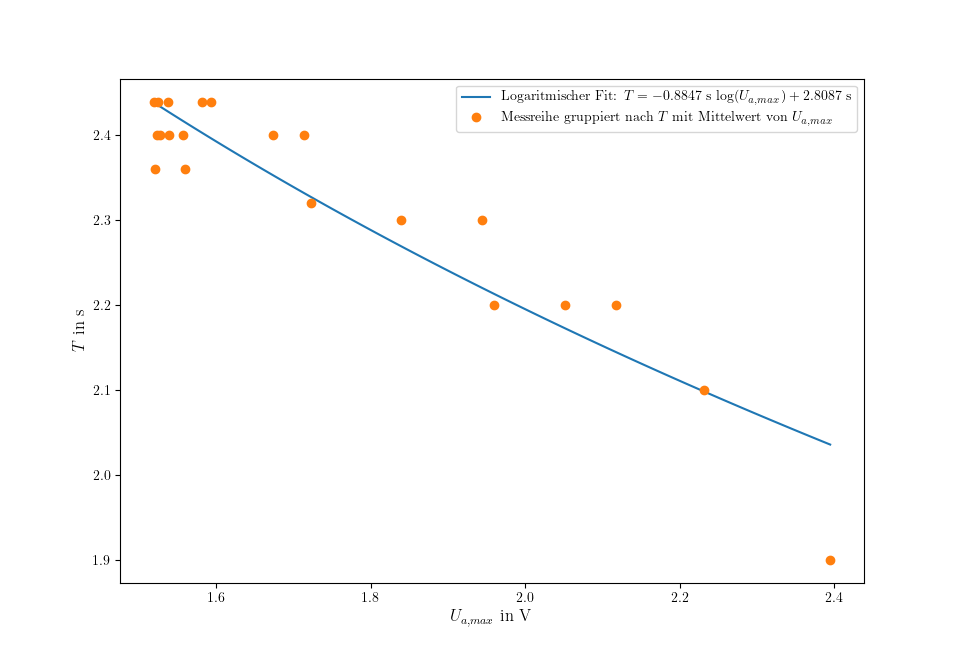
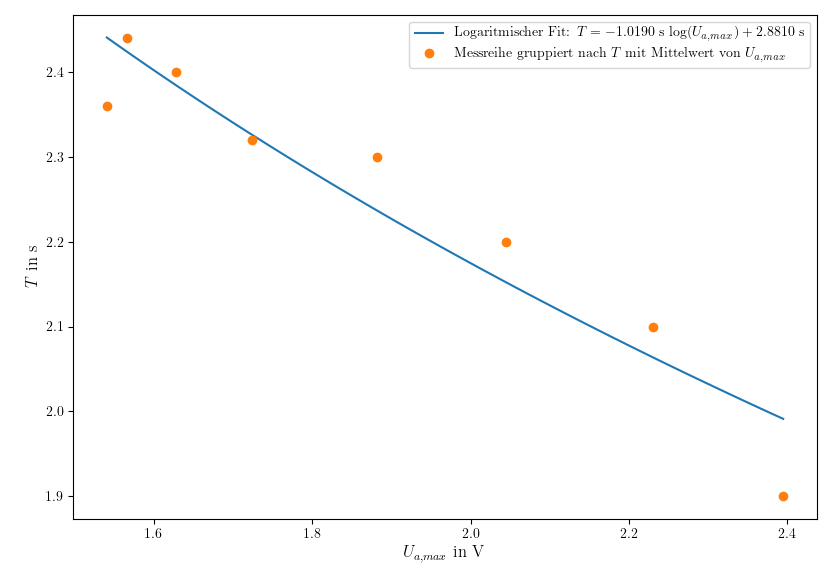
Chaos: Pendel fertig

diff --git a/Versuch_Chaos/41-AuswerungPendel.tex b/Versuch_Chaos/41-AuswerungPendel.tex
@@ -92,3 +92,90 @@ Das Ergebnis zeigt, dass die bestimmte Federkonstante $k$ nahe an den tatsächli
     \captionof{figure}{Linerar Fit der Messreihe}
     \label{image:linFit}
 \end{center}
+\subsection{Schwache Nichtlinearität}
+\label{sub:AuswertungweakLin}
+\paragraph{a)}
+Für die experimentelle Auswertung der Amplitudenabhängigkeit der Schwingungsdauer $T$ des Pendels  wird aus den aufgenommenen Daten die Maxima von der Spannung $U_{a}$ bestimmt, sowie der zeitlichen Abstand $\Delta t$ zwischen zwei Maxima ermittelt. Bei den Abstand $\Delta t$ entspricht dann der Periodendauer $T$ des Pendels. Da mehrere Werte für $T$ verhäuft vorkamen, haben wir die Daten von $T$ gruppiert und über die zugehörigen Maxima der Spannung $U_{a,max}$ den Mittelwert gebildet.
+\begin{center}
+    \begin{tabular}{c|c}
+        $T$/s & $U_{a,max}$/V\\
+        \hline
+        1.90  &  2.395000 \\
+        2.10  &  2.231000 \\
+        2.20  &  2.045000 \\
+        2.30  &  1.881600 \\
+        2.32  &  1.723000 \\
+        2.36  &  1.540000 \\
+        2.40  &  1.627824 \\
+        2.44  &  1.565100 \\
+        \end{tabular}
+        \captionof{table}{Messreihe Schwingungsdauer in Amplitudenabhängigkeit}
+\end{center}
+\begin{center}
+    \includegraphics[scale=0.5]{Pendel/3.2a/AbhSchwingung.png}
+    \captionof{figure}{Ampliudenabhängigkeit der Schwingungsdauer mit logarithmischen Fit}
+    \label{image:schwing}
+\end{center}
+Bei der grafischen Auswertung (siehe Abb.\ref{image:schwing}) erkennt man deutlich einen Abwärtstrend. Ein logarithmischer Fit wie in Kapitel \ref{sub:schwingungsdauer} beschrieben, gibt dann die Funktion:
+\begin{gather}
+    T=(-1,0190~\text{s})\log(U_{a,max}) + (2.8810~\text{s}).
+\end{gather}
+Dieser Fit ist aber noch nicht Aussagekräftig, da die Messwerte auch einen linearen Fir zulassen würden, weswegen mehr Messpunkte gebraucht werden würden.
+\paragraph{b)}
+\begin{center}
+    \includegraphics[scale=0.7]{Pendel/3.2b/Resonanz.png}
+    \captionof{figure}{Resonanzkurve}
+    \label{image:resonanz}
+\end{center}
+Bei der Messung der Resonanzkurve erkennt man grob verschiedene Bereiche, dabei beschreibt die Aufwärtsbewegung die blaue Kurve (0,0 Hz $\rightarrow$ 6,9 Hz) und die Abwärtsbewegung die orange Kurve (6,9 Hz $\rightarrow$ 0,0 Hz):
+\begin{itemize}
+    \item[1)]0,0-0,5 Hz\\Die Drehfrequenz des Schrittmotors reicht nicht aus um das Pendel anzuregegen.
+    \item[2)]0,5-2,0 Hz\\Erregerfrequenz regt Pendel zum schwingen an. Vereinzelte Zacken zeigen dabei die Schritte, welche der Schrittmotor macht beim Antreiben.
+    \item[3)]2,0-3,0 Hz\\Anstieg der Amplitude und Fall Abwärtsbewegung erreicht die Kurve ihr Maximum.
+    \item[4)]3,0-4,0 Hz\\Anstieg der AUfwärtsbewegung zu ihrem Maximum, während die Abwärtsbewegung in den instabilen Zustand (siehe Abb. \ref{image:resonanzkurve}) übergeht.
+    \item[5)]4,0-5,0 Hz\\Abfallen der Aufwärtsbewegung und übergehen der Aufwärtsbewegung in die Abwärtsbewegung.
+    \item[6)]5,0-6,9 Hz\\Pendel kommt Drehfrequenz des Motors nicht mehr hinterher und schwingt nicht mehr 
+\end{itemize}
+\subsection{Starke Nichtlinearität}
+\label{sub:AuswertungstrongLin}
+\paragraph{a)}
+Nun werden die einzelnen Schwingungszustände bei verschiedenen Frequenzen untersucht. Wobei mit einer hohen Frequenz begonnen wurde und dann schrittweise verkleinert wird. Dabei ist durch den Ausfahl des Messprogramms zwei Messreihen erstellt, wodurch sich der Attraktoren verändert hat. 
+\begin{center}
+    \includegraphics[scale=0.3]{Pendel/3.3a/0,233Hz.png}
+    \captionof{figure}{0,233 Hz}
+    \label{image:0,233hz}
+    \includegraphics[scale=0.3]{Pendel/3.3a/0,411Hz.png}
+    \captionof{figure}{0,411 Hz}
+\end{center}
+Chaotisches Verhalten, was in Leistungsspektrum auch zu erkennen ist. Weiterhin erkennt man die zwei möglichen Schwingungen auf der rechten und linken Seite der Pendels. In der Mitte ist dabei ein Sattelpunkt des Attraktors. Die Abb. \ref{image:0,233hz} beschreibt dabei die Schwingung auf der linken Seite.
+\begin{center}
+    \includegraphics[scale=0.3]{Pendel/3.3a/0,847Hz.png}
+    \captionof{figure}{0,847 Hz}
+    \includegraphics[scale=0.3]{Pendel/3.3a/0,882Hz.png}
+    \captionof{figure}{0,882 Hz}
+\end{center}
+Hier erkennt man schon die Periode 2 in leichter Ausprägung, dennoch ist das Verhalten weiter chaotisch, wobei im Leistungsspektrum mehrere deutliche Peaks zu erkennen sind.
+\begin{center}
+    \includegraphics[scale=0.3]{Pendel/3.3a/1,201Hz.png}
+    \captionof{figure}{1,201 Hz}
+\end{center}
+Deutliches Ausbilden der Periode 1 gut zu erkennen an den definierten Peaks im Leistungsspektrum.
+\begin{center}
+    \includegraphics[scale=0.3]{Pendel/3.3a/1,702Hz.png}
+    \captionof{figure}{1,702 Hz}
+    \includegraphics[scale=0.3]{Pendel/3.3a/1,802Hz.png}
+    \captionof{figure}{1,802 Hz}
+    \includegraphics[scale=0.3]{Pendel/3.3a/2,100Hz.png}
+    \captionof{figure}{2,100 Hz}
+\end{center}
+Ausprägen des Torusattraktors bei höheren Frequenzen, wobei dabei das Leistungsspektrum unverändert an der Anzahl der Peaks bleibt, aber die Ausprägung ändert sich.
+\newpage
+\paragraph{b)}
+\begin{center}
+    \includegraphics[scale=0.5]{Pendel/3.3b/Schwingungall.png}
+    \captionof{figure}{Schwingung kompletten Datensatz dargestellt}
+    \includegraphics[scale=0.5]{Pendel/3.3b/Startwert.png}
+    \captionof{figure}{Schwingung mit Start und Endpunkt}
+    \label{image:startwert}
+\end{center}
+In Abbildung \ref{image:startwert} erkennt man dann deutlich, dass die Schwingungen sich beim zweiten Umschlag auf die linken Seite voneinander unterscheiden. 

diff --git a/Versuch_Chaos/21-AllgemeinesChaos.tex b/Versuch_Chaos/21-AllgemeinesChaos.tex
@@ -35,7 +35,7 @@ Das dynamische System ist vollständig determiniert, wenn ein Zustand $\vect{x}(
     Durch die Abhängigkeit der \textit{Trajektorien} vom Anfangszustand $\vect{x}_0$ kann gefolgert werden, dass sich \textit{Trajektorien} mit unterschiedlichen Anfangszuständen $\vect{x}_0$ nicht schneiden können. Es können aber unterschiedliche Anfangszustände $\vect{x}_0$ auf derselben \textit{Trajektorie} befinden und sich nur um eine Zeittranslation unterscheiden. \citep{Mat1}\\
 
     \item[\textbf{3.}]\textbf{Phasenraum}\\
-    Der \textit{\textbf{Phasenraum}} oder \textit{\textbf{Zustandsraum}} beschreibt eine Menge aller Zustände oder eine Darstellung aller Trajektorien eines dynamischen Systems und bietet einen Überblick über das Verhalten der gesamten Differentialgleichung ohne diese explizit lösen zu müssen.\\ %!!! Quelle
+    Der \textit{\textbf{Phasenraum}} oder \textit{\textbf{Zustandsraum}} beschreibt eine Menge aller Zustände oder eine Darstellung aller Trajektorien eines dynamischen Systems und bietet einen Überblick über das Verhalten der gesamten Differentialgleichung ohne diese explizit lösen zu müssen. \citep{Mat1}
     %Der \textit{Phasenraum} wird vom Zustand $\vect{x}(t)$ und dessen Ableitung $\dot{\vect{x}}(t)$ aufgespannt bzw. ist eine $(\vect{x}(t),\dot{\vect{x}}(t))$-Ebene, was eine Parameterdarstellung der Differentialgleichung über die Zeit $t$ darstellt.
     %In diesem \textit{Phasenraum} lässt sich dann ein Vektor $(\vect{x},\dot{\vect{x}})$ definieren, welcher auf die \textit{Trajektorien}, die sich mit dem Anfangszustand $\vect{x}_0$ änderen, zeigt. Die Ableitung dieses Vektors $\frac{\text{d}}{\text{d}t}(\vect{x},\dot{\vect{x}})=(\dot{\vect{x}},\ddot{\vect{x}})$ erzeugt ein \textit{Vektorfeld} bzw. ein \textit{Richtungsfeld} der Differentialgleichung, dessen Vektoren tangential auf den \textit{Trajektorien} steht.
 
@@ -47,7 +47,7 @@ Das dynamische System ist vollständig determiniert, wenn ein Zustand $\vect{x}(
             (2)~&\nabla\cdot\vect{F}<0\Rightarrow \dot{V}<0 \Rightarrow~\text{Dissipatives System}
         \end{aligned}
     \end{gather}
-    In einem dissipativen System laufen die Trajektorien nach einer Einlaufsphase (transiente Bewegung) in einem begrenzten Bereich im Phasenraum, welchen man als \textit{\textbf{Attraktor}} bezeichnet (Bewegung auf \textit{Attraktor}: permante oder posttransiente Bewegung). Ein Attraktor weist folgende Eigenschaften auf:
+    In einem dissipativen System laufen die Trajektorien nach einer Einlaufsphase (transiente Bewegung) in einem begrenzten Bereich im Phasenraum, welchen man als \textit{\textbf{Attraktor}} bezeichnet (Bewegung auf \textit{Attraktor}: permante oder posttransiente Bewegung). Ein Attraktor weist folgende Eigenschaften auf \citep{Lueck}:
     \begin{itemize}
         \item[(1)] Kompakte Menge im Phasenraum
         \item[(2)] Invariant unter der Wirkung des Flusses

diff --git a/Versuch_Chaos/41-Startwertabh.py b/Versuch_Chaos/41-Startwertabh.py
@@ -1,0 +1,45 @@
+from matplotlib.pyplot import colorbar
+import numpy as np
+from numpy.core.fromnumeric import size
+import pandas as pd
+import matplotlib.pylab as plt
+from matplotlib import rc
+
+rc('text', usetex=True)
+rc('font', family='serif')
+
+data = ['Versuch_Chaos/Daten/Pendel/3.3b/1/06_09_2021_17_21_54_G11_pendel_0.dat',
+        'Versuch_Chaos/Daten/Pendel/3.3b/2/06_09_2021_17_20_15_G11_pendel_0.dat',
+        'Versuch_Chaos/Daten/Pendel/3.3b/3/06_09_2021_17_23_41_G11_pendel_0.dat']
+
+
+df1 = pd.read_csv(data[0], delim_whitespace=True, skiprows=7, decimal=',')
+ 
+df1 = df1[['Ua(V)','-dUa/dt(V)']]
+df1 = df1.dropna()
+
+x_p1, y_p1 =  df1['Ua(V)'], df1['-dUa/dt(V)']
+
+#plt.plot(x_p1,y_p1,label='Schwingung 1')
+plt.plot(x_p1[1150:len(df1)-1],y_p1[1150:len(df1)-1],label='Schwingung 1')
+plt.plot(x_p1[len(df1)-1],y_p1[len(df1)-1],'x',color='g')
+plt.plot(x_p1[1150],y_p1[1150],'x',color='r')
+
+df2 = pd.read_csv(data[1], delim_whitespace=True, skiprows=7, decimal=',')
+ 
+df2 = df2[['Ua(V)','-dUa/dt(V)']]
+df2 = df2.dropna()
+
+x_p2, y_p2 =  df2['Ua(V)'], df2['-dUa/dt(V)']
+
+#plt.plot(x_p2,y_p2,label='Schwingung 2')
+plt.plot(x_p2[1400:len(df2)-1],y_p2[1400:len(df2)-1],label='Schwingung 2')
+plt.plot(x_p2[len(df2)-1],y_p2[len(df2)-1],'x',color='g',label='Startpunkt')
+plt.plot(x_p2[1400],y_p2[1400],'x',color='r',label='Endpunkt')
+
+plt.xlabel(r'$U_a$ in V',size=12)
+plt.ylabel(r'$\dot{U_a}$ in $\frac{\mathrm{V}}{\mathrm{s}}$',size=12)
+
+plt.legend()
+plt.show()
+

diff --git a/Versuch_Chaos/22-InvertiertesPendel.tex b/Versuch_Chaos/22-InvertiertesPendel.tex
@@ -107,4 +107,4 @@ Mit diesem Aufbau sind bis zu ca 5 Umdrehungen/s möglich, wobei die Antriebskra
     \captionof{figure}{Messschaltung des invertierten Pendels}
     \label{image:schaltungPendel}
 \end{center}
-Hierbei wird in der Messschaltung (siehe Abb. \ref{image:schaltungPendel}) für höhere Genauigkeit die zwei DMS in einer Brückenschaltung verschalten un die Spannungsdifferenz von ihnen zu messen, wobei die Spannung dann proportional zur Pendelauslenkung $\theta$ ist. Für das Abgreifen der Geschwindigkeit als zweite Phasenraumvariable werden die Spannungen über eine Operationsverstärker-Schaltung differenziert. Die Spannungen werden dann einem im PC eingebauten Analog-Digital-Wandler-Karte gemessen, wobei die Messkarte über LABVIEW (Messprogramm) gesteuert wird.
+Hierbei wird in der Messschaltung (siehe Abb. \ref{image:schaltungPendel}) für höhere Genauigkeit die zwei DMS in einer Brückenschaltung verschalten un die Spannungsdifferenz von ihnen zu messen, wobei die Spannung dann proportional zur Pendelauslenkung $\theta$ ist. Für das Abgreifen der Geschwindigkeit als zweite Phasenraumvariable werden die Spannungen über eine Operationsverstärker-Schaltung differenziert. Die Spannungen werden dann einem im PC eingebauten Analog-Digital-Wandler-Karte gemessen, wobei die Messkarte über LABVIEW (Messprogramm) gesteuert wird. \citep{Lueck}

diff --git a/Versuch_Chaos/41-Maxima.py b/Versuch_Chaos/41-Maxima.py
@@ -27,8 +27,10 @@ df['dt(s)'] = df.diff(axis = 0, periods = 1)['t(s)']
 
 #Mittelwerte für gleiche Zeiten
 df2 = df[['dt(s)', 'max']]
-df2 = df2.groupby(['dt(s)']).mean()
-print(df2.keys())
+df2 = df2.round({'dt(s)': 2})
+df2 = df2.dropna()
+df2 = df2.groupby(by='dt(s)').mean()
+#print(df2.to_latex())
 
 #df = df.drop_duplicates(subset=['dt(s)'], keep='last')
 #print(df)
@@ -56,7 +58,7 @@ a, b = fit(x,y)
 print(a,b)
 x_line = np.linspace(x.min(),x.max(),100)
 y_line = log(x_line,a,b)
-plt.plot(x_line, y_line, label=r'Logaritmischer Fit: $T=-0.8847$ s $\log(U_{a,max}) + 2.8087$ s')
+plt.plot(x_line, y_line, label=r'Logaritmischer Fit: $T=-1.0190$ s $\log(U_{a,max}) + 2.8810$ s')
 plt.plot(x, y, 'o',label=r'Messreihe gruppiert nach $T$ mit Mittelwert von $U_{a,max}$')
 plt.xlabel(r'$U_{a,max}$ in V',size=12)
 #plt.ylabel(r'$\omega=\frac{2\pi}{T}$ in $\frac{1}{\mathrm{s}}$',size=12)

diff --git a/Versuch_Chaos/41-Resonanz.py b/Versuch_Chaos/41-Resonanz.py
@@ -17,8 +17,8 @@ df = df.dropna()
 x_up, y_up = df['xup(f)'], df['yup(V)']
 x_do, y_do = df['xdown(f)'], df['ydown(V)']
 
-plt.plot(2*np.pi*x_up,y_up,'.',label=r'$0$ Hz $\rightarrow 1,1$ Hz')
-plt.plot(2*np.pi*x_do,y_do,'.',label=r'$1,1$ Hz $\rightarrow 0$ Hz')
+plt.plot(2*np.pi*x_up,y_up,'.',label=r'$0,0$ Hz $\rightarrow 6,9$ Hz')
+plt.plot(2*np.pi*x_do,y_do,'.',label=r'$6,9$ Hz $\rightarrow 0,0$ Hz')
 plt.xlabel(r'$\omega = 2 \pi f$ in Hz',size=12)
 plt.ylabel(r'$b$ in V',size=12)
 plt.legend()
